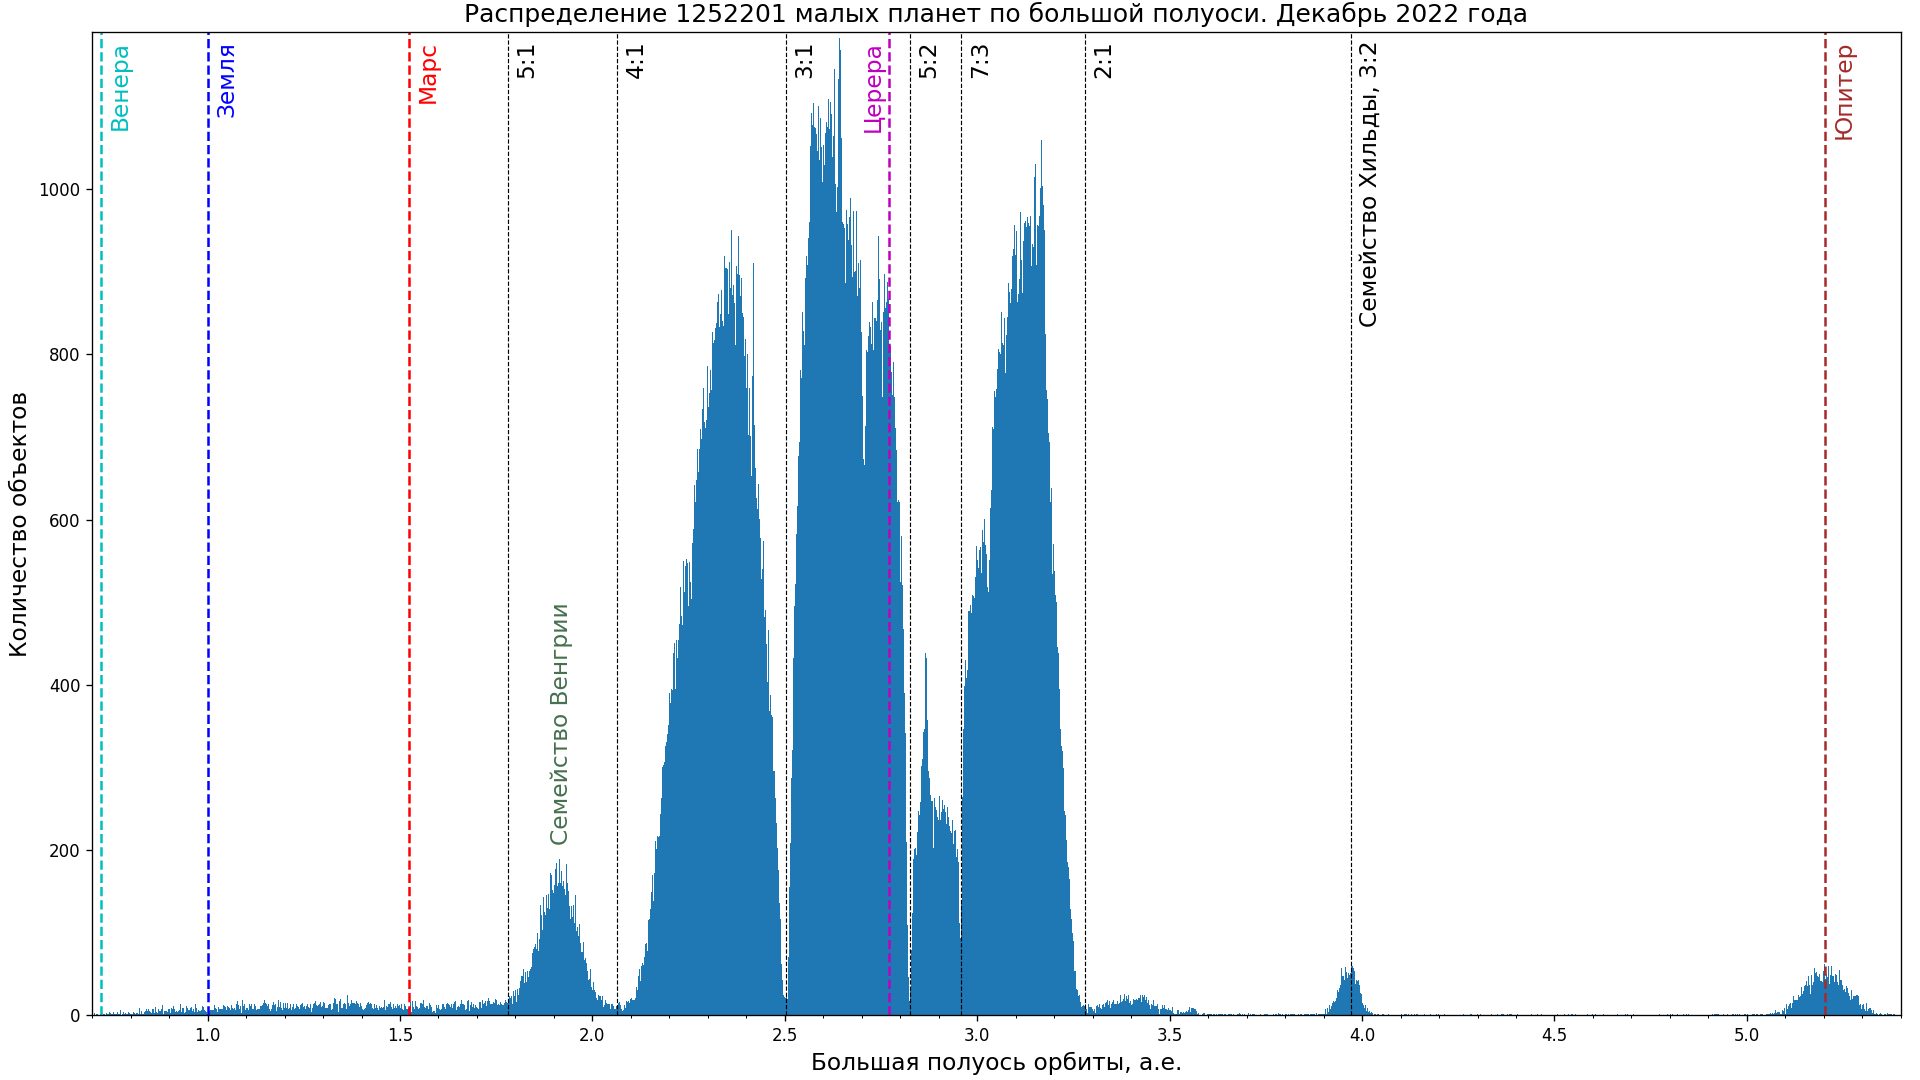
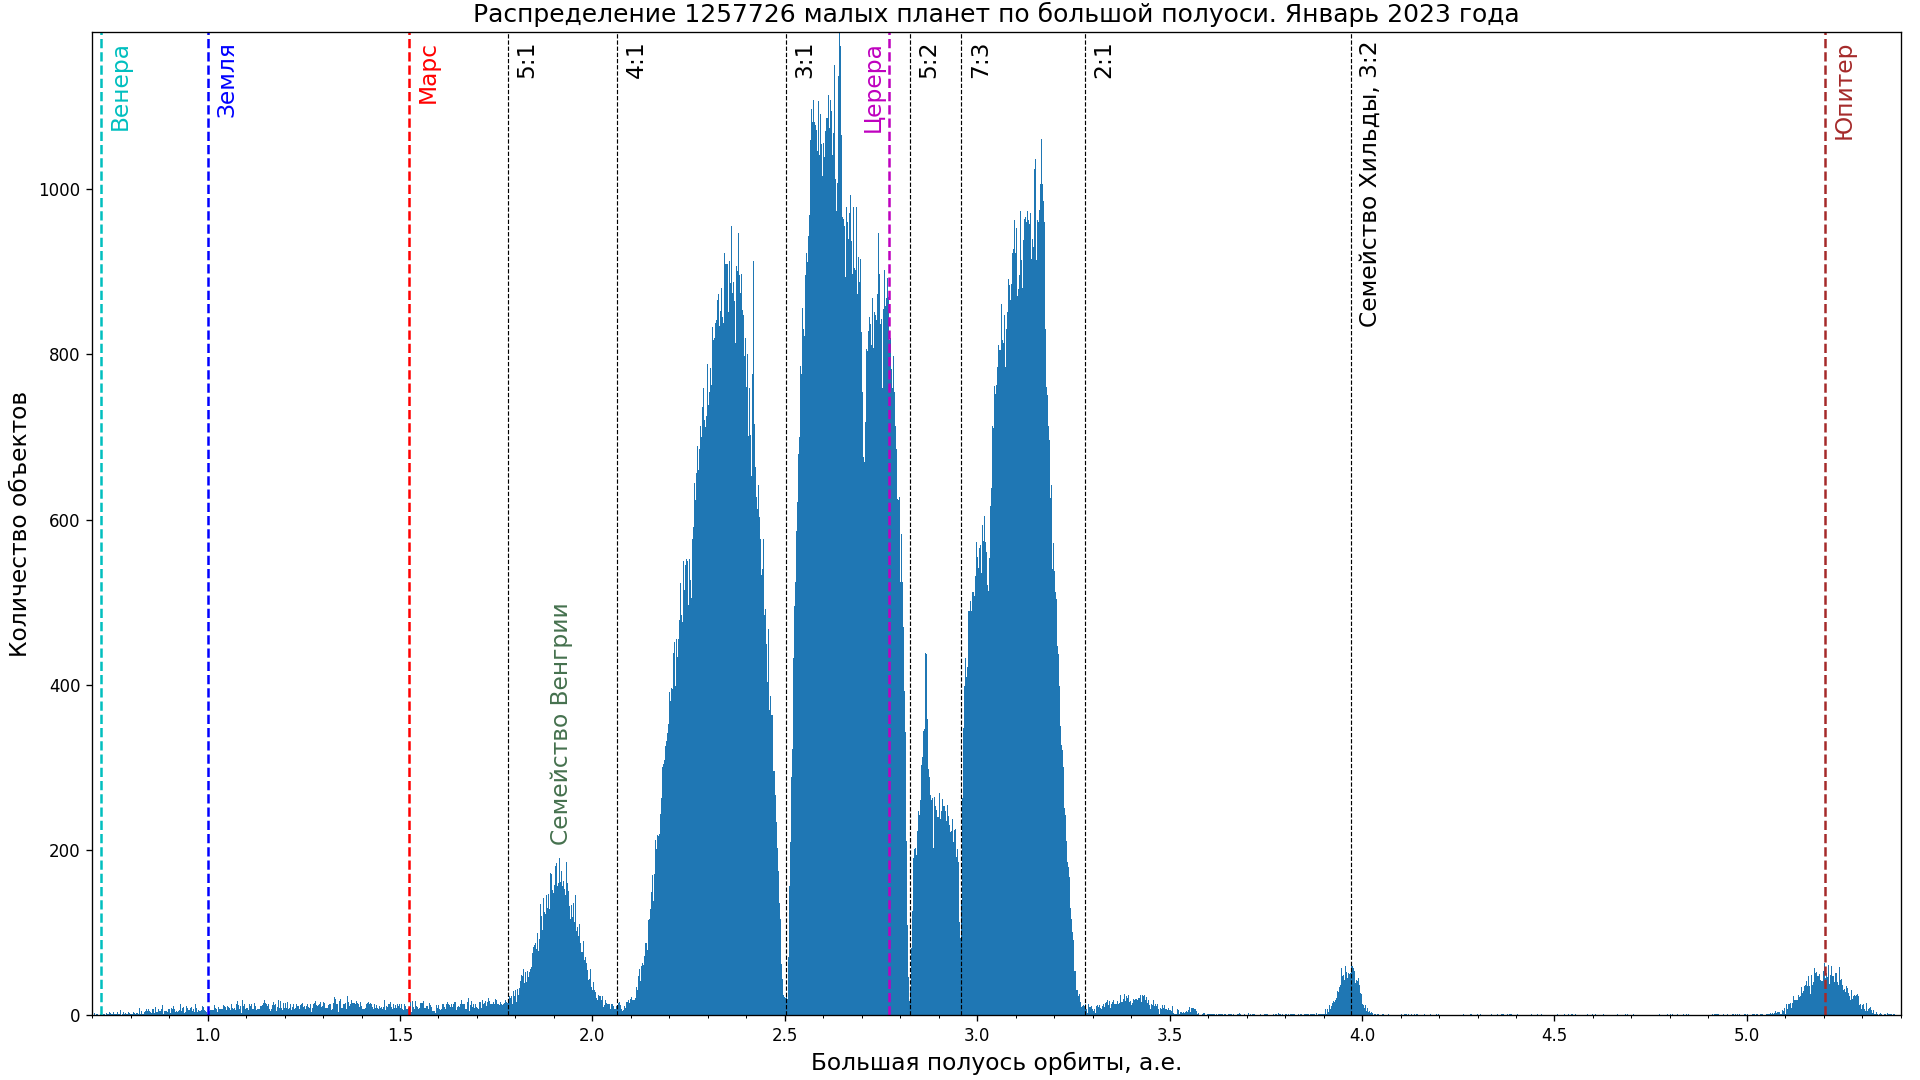
add graph, update another

Changed region(s): [[0.25, 0.0, 0.8125, 0.0306]]

diff --git a/README.md b/README.md
@@ -10,6 +10,7 @@ All code and description are avaliable at [gvard.github.io](https://gvard.github
 [Data source: NASA Center for NEO Studies and IAU Minor Planet Center](https://cneos.jpl.nasa.gov/stats/)
 * Distribution of Solar System bodies by average distance to Sun
 ![Distribution of minor planets by semi-major axis between Venus and Jupiter (histogram of 8000 bins)](./plots/solarsystem/asteroids-hist-a0.7-5.4.png)
+![Distribution of minor planets by semi-major axis beyond Neptune (histogram of 900 bins)](./plots/solarsystem/asteroids-hist-a29-70.png)
 [Data source: IAU Minor Planet Center, The MPC Orbit (MPCORB) Database](https://minorplanetcenter.net/iau/MPCORB.html)
 
 ## Supernova observations
@@ -17,8 +18,8 @@ All code and description are avaliable at [gvard.github.io](https://gvard.github
 ![Supernovae observations](./plots/stars/sne_stats_bar_chart.svg)
 * Cumulative number of supernovae
 ![Cumulative number of supernovae](./plots/stars/sne_transients_total_number_log_plot.svg)
-[Data source: David Bishop, Latest Supernovae Archives](https://www.rochesterastronomy.org/snimages/archives.html)
-[Data source: Transient Name Server stats](https://www.wis-tns.org/stats-maps)
+[Data source: David Bishop, Latest Supernovae Archives](https://www.rochesterastronomy.org/snimages/archives.html);
+[Transient Name Server stats](https://www.wis-tns.org/stats-maps)
 
 * History of transient observations by year from Transient Name Server
 ![Transient observations from Transient Name Server](./plots/stars/transient_stats_bar_chart.svg)
